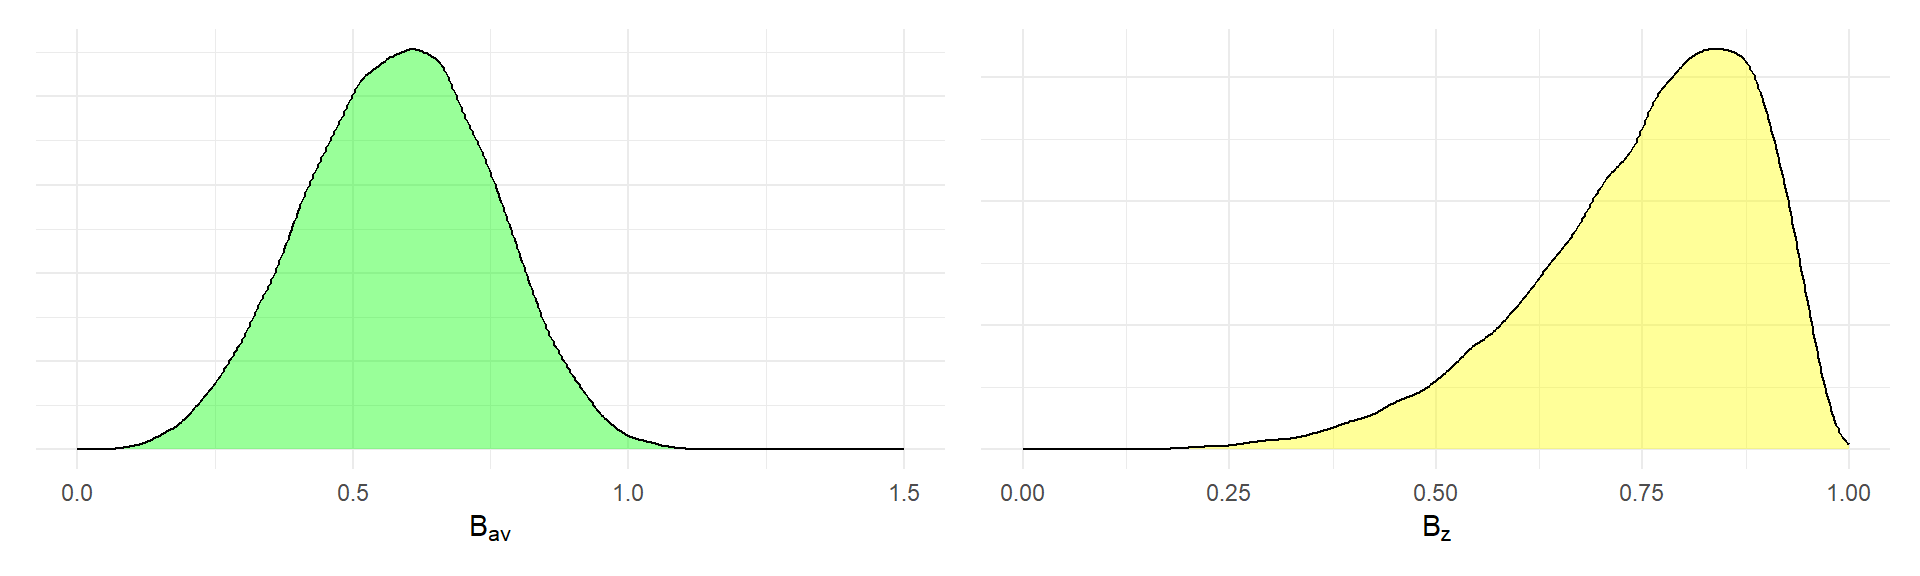
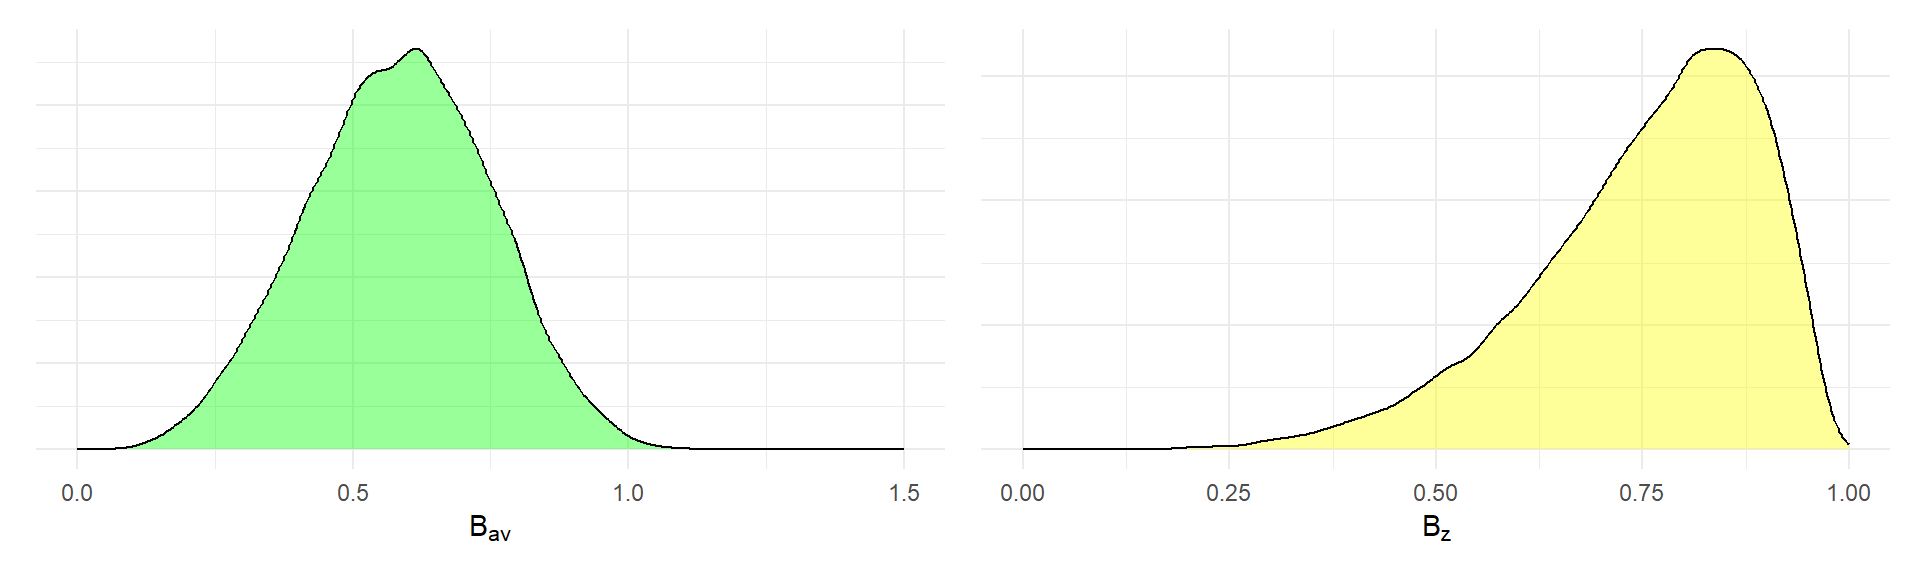
Finished dizzy for d-z.

diff --git a/content/post/dizzy-for-d-z.html b/content/post/dizzy-for-d-z.html
@@ -6,7 +6,6 @@ date: '2023-02-17'
 codefolding_show: 'hide'
 slug: dizzy-for-d-z
 categories: []
-draft: true
 tags:
   - effect size
   - standardized mean difference
@@ -137,7 +136,7 @@ p_A_av &lt;- density_plot(A_av, expression(A[av]),&quot;blue&quot;, c(0.2,1))
 p_A_z &lt;- density_plot(A_z, expression(A[z]), &quot;purple&quot;, c(0, 3))
 p_A_av + p_A_z</code></pre>
 <p><img src="/post/dizzy-for-d-z_files/figure-html/unnamed-chunk-2-1.png" width="960" /></p>
-<p>The distribution of <span class="math inline">\(A_{av}\)</span> is mostly concentrated around the mean of <span class="math inline">\(E(A_{av}) = 0.898\)</span>, with a coefficient of variation of <span class="math inline">\(CV(A_{av}) = 0.085\)</span>. In contrast, the distribution of <span class="math inline">\(A_{av}\)</span> has a mean very close to one, <span class="math inline">\(E(A_z) = 1.005\)</span> but a coefficient of variation of <span class="math inline">\(CV(A_z) = 0.208\)</span>, about 2.5 times larger. Thus, variation in measurement procedure induces more extra heterogeneity into the distribution of <span class="math inline">\(\tilde\delta_z\)</span> than into <span class="math inline">\(\tilde\delta_{av}\)</span>.</p>
+<p>The distribution of <span class="math inline">\(A_{av}\)</span> is mostly concentrated around the mean of <span class="math inline">\(E(A_{av}) = 0.898\)</span>, with a coefficient of variation of <span class="math inline">\(CV(A_{av}) = 0.085\)</span>. In contrast, the distribution of <span class="math inline">\(A_{av}\)</span> has a mean very close to one, <span class="math inline">\(E(A_z) = 1.006\)</span> but a coefficient of variation of <span class="math inline">\(CV(A_z) = 0.209\)</span>, about 2.5 times larger. Thus, variation in measurement procedure induces more extra heterogeneity into the distribution of <span class="math inline">\(\tilde\delta_z\)</span> than into <span class="math inline">\(\tilde\delta_{av}\)</span>.</p>
 <p>Now, one potential objection to this hypothetical scenario is that researchers do not choose the number of trials at random, without consideration for the other parameters of the study design. A more realistic assumption might be that researchers choose <span class="math inline">\(K\)</span> to ensure they achieve at least some threshold level of reliability for the observed scores. The reliability of the observed scores is <span class="math inline">\(A_{av}^2\)</span>, so ensuring some threshold of reliability is equivalent to ensuring the square root of the threshold for <span class="math inline">\(A_{av}\)</span>. Let’s suppose that researchers always ensure <span class="math inline">\(A_{av} \geq 0.8\)</span> so that reliability is always at least <span class="math inline">\(0.64\)</span>. This leads to the following distributions for <span class="math inline">\(A_{av}\)</span> and <span class="math inline">\(A_z\)</span>:</p>
 <pre class="r"><code>A_av_trunc &lt;- A_av[A_av &gt;= 0.8]
 A_z_trunc &lt;- A_z[A_av &gt;= 0.8]
@@ -145,8 +144,8 @@ p_A_av_trunc &lt;- density_plot(A_av_trunc, expression(A[av]),&quot;blue&quot;, 
 p_A_z_trunc &lt;- density_plot(A_z_trunc, expression(A[z]), &quot;purple&quot;, c(0, 3))
 p_A_av_trunc + p_A_z_trunc</code></pre>
 <p><img src="/post/dizzy-for-d-z_files/figure-html/unnamed-chunk-3-1.png" width="960" />
-The distribution of <span class="math inline">\(A_{av}\)</span> loses its left tail, so that its mean is <span class="math inline">\(E(A_{av}|A_{av} \geq 0.8) = 0.917\)</span> and its coefficient of variation is reduced to <span class="math inline">\(CV(A_{av} | A_{av} \geq 0.8) = 0.049\)</span>. The distribution of <span class="math inline">\(A_{av}\)</span> now has a mean of <span class="math inline">\(E(A_z | A_{av} \geq 0.8) = 1.043\)</span> and a coefficient of variation of <span class="math inline">\(CV(A_z | A_{av} \geq 0.8) = 0.173\)</span>, about 3.5 times larger than the squared coefficient of variation of <span class="math inline">\(A_{av}\)</span>.</p>
-<p>Under both of these scenarios, the observed-score <span class="math inline">\(\tilde\delta_z\)</span> is substantially more sensitive to heterogeneity of measurement procedures than is <span class="math inline">\(\tilde\delta_{av}\)</span>. Based on this model and hypothetical example, it seems clear <span class="math inline">\(\tilde\delta_{av}\)</span> should be preferred over <span class="math inline">\(\tilde\delta_z\)</span> as a metric for meta-analyis. However, these relationships are predicated on a certain model for the study-specific parameters. One might object to this model because there’s a sense that we have assumed that <span class="math inline">\(\delta_{av}\)</span> is the right answer. After all, the underlying effect size model is specified in terms of <span class="math inline">\(\delta_{av}\)</span>, and the design parameters—including <span class="math inline">\(\rho\)</span> in particular—are treated as noise, uncorrelated with <span class="math inline">\(\delta_{av}\)</span>.
+The distribution of <span class="math inline">\(A_{av}\)</span> loses its left tail, so that its mean is <span class="math inline">\(E(A_{av}|A_{av} \geq 0.8) = 0.918\)</span> and its coefficient of variation is reduced to <span class="math inline">\(CV(A_{av} | A_{av} \geq 0.8) = 0.049\)</span>. The distribution of <span class="math inline">\(A_{av}\)</span> now has a mean of <span class="math inline">\(E(A_z | A_{av} \geq 0.8) = 1.045\)</span> and a coefficient of variation of <span class="math inline">\(CV(A_z | A_{av} \geq 0.8) = 0.173\)</span>, about 3.5 times larger than the squared coefficient of variation of <span class="math inline">\(A_{av}\)</span>.</p>
+<p>Under both of these scenarios, the observed-score <span class="math inline">\(\tilde\delta_z\)</span> is substantially more sensitive to heterogeneity of measurement procedures than is <span class="math inline">\(\tilde\delta_{av}\)</span>. Based on this model and hypothetical example, it seems clear <span class="math inline">\(\tilde\delta_{av}\)</span> should be preferred over <span class="math inline">\(\tilde\delta_z\)</span> as a metric for meta-analysis. However, these relationships are predicated on a certain model for the study-specific parameters. One might object to this model because there’s a sense that we have assumed that <span class="math inline">\(\delta_{av}\)</span> is the right answer. After all, the underlying effect size model is specified in terms of <span class="math inline">\(\delta_{av}\)</span>, and the design parameters—including <span class="math inline">\(\rho\)</span> in particular—are treated as noise, uncorrelated with <span class="math inline">\(\delta_{av}\)</span>.
 What happens to the observed-score metrics <span class="math inline">\(\tilde\delta_z\)</span> and <span class="math inline">\(\tilde\delta_{av}\)</span> if we instead start with a model specified in terms of <span class="math inline">\(\delta_z\)</span>?</p>
 </div>
 <div id="a-model-for-delta_z" class="section level2">
@@ -239,10 +238,10 @@ knitr::kable(
 <tr class="odd">
 <td align="left">random</td>
 <td align="right">0.085</td>
-<td align="right">0.208</td>
+<td align="right">0.209</td>
 <td align="right">2.5</td>
 <td align="right">0.285</td>
-<td align="right">0.181</td>
+<td align="right">0.182</td>
 <td align="right">0.64</td>
 </tr>
 <tr class="even">
@@ -256,9 +255,11 @@ knitr::kable(
 </tr>
 </tbody>
 </table>
+<p>The tables are now more or less turned. Under both reliability scenarios, <span class="math inline">\(B_z\)</span> has a lower coefficient of variation than <span class="math inline">\(B_{av}\)</span>, indicating that <span class="math inline">\(\tilde\delta_z\)</span> is less affected by measurement procedure variation than is <span class="math inline">\(\tilde\delta_{av}\)</span>. However, <span class="math inline">\(\tilde\delta_z\)</span> is still affected in absolute terms, with a coefficient of variation that is about 79% of the coefficient of variation for <span class="math inline">\(A_z\)</span>. Of course, <span class="math inline">\(\tilde\delta_{av}\)</span> is quite strongly affected under this model, with a coefficient of variation of 0.257.</p>
 </div>
 <div id="consequences-for-heterogeneity" class="section level2">
 <h2>Consequences for heterogeneity</h2>
+<p>To make these results a bit more concrete, it’s useful to consider a specific numerical scenario. The figure below plots the CVs of observed-score effect size parameters as a function of the CVs of the true effect size distribution.</p>
 <pre class="r"><code>library(tidyr)
 library(stringr)
 
@@ -273,6 +274,15 @@ CV_obs &lt;-
     CV = sqrt((1 + 2 * tau_mu^2) * het^2 + tau_mu^2)
   )
 
+CV_ex &lt;- CV_obs |&gt;
+  filter(tau_mu == 0.5, reliability == &quot;Reliability of at least 0.64&quot;) |&gt;
+  select(metric, CV) |&gt;
+  mutate(
+    CV = round(CV, 3),
+    metric = str_replace(str_sub(metric, 1, -2), &quot;\\[&quot;, &quot;_&quot;)
+  ) |&gt;
+  pivot_wider(names_from = metric, values_from = CV)
+
 CV_obs_labs &lt;-
   CV_obs %&gt;%
   filter(tau_mu == 0)
@@ -284,19 +294,31 @@ ggplot(CV_obs, aes(tau_mu, CV, color = metric)) +
   geom_vline(xintercept = 0) + 
   geom_hline(yintercept = 0) + 
   geom_abline(slope = 1, linetype = &quot;dashed&quot;) + 
-  geom_text(data = CV_obs_labs, aes(x = tau_mu, y = CV, color = metric, label = metric)) + 
+  geom_text(
+    data = CV_obs_labs, 
+    aes(x = tau_mu, y = CV, color = metric, label = metric),
+    nudge_x = -0.05,
+    parse = TRUE
+  ) + 
   geom_line() + 
   theme_minimal() + 
   labs(x = expression(tau / mu), y = &quot;Coefficient of variation for observed score ES&quot;) + 
   theme(legend.position = &quot;none&quot;)</code></pre>
-<p><img src="/post/dizzy-for-d-z_files/figure-html/unnamed-chunk-7-1.png" width="672" /></p>
+<p><img src="/post/dizzy-for-d-z_files/figure-html/unnamed-chunk-7-1.png" width="672" />
+Consider, for instance, a scenario where observed-score reliability is always at least 0.64 and <span class="math inline">\(\tau / \mu = 0.5\)</span>, which would be the case if effect sizes are normally distributed and about 97% of effect sizes are positive. Under the effect size model based on <span class="math inline">\(\delta_{av}\)</span>, the observed-score <span class="math inline">\(\tilde\delta_{av}\)</span> is hardly affected by measurement heterogeneity at all, with a CV of 0.504 but the CV of the observed-score <span class="math inline">\(\tilde\delta_z\)</span> is 0.543. Under the effect size model based on <span class="math inline">\(\delta_{av}\)</span>, the observed-score <span class="math inline">\(\tilde\delta_{av}\)</span> is strongly affected by measurement heterogeneity, with a CV of 0.591; in comparison, the CV of the observed-score <span class="math inline">\(\tilde\delta_z\)</span> of 0.527. Under both models, these increase in CV are effectively constant for larger values of <span class="math inline">\(\tau / \mu\)</span>.</p>
 </div>
+</div>
+<div id="so-whats-your-point" class="section level1">
+<h1>So what’s your point?</h1>
+<p>Unfortunately, this particular rabbit hole doesn’t seem to lead to many clear take-aways. For the scenario that I looked at here, the preferred choice of effect size metric is apparently driven by what assumptions we find more plausible. If we think the more plausible model is the one in which <span class="math inline">\(\rho\)</span> is independent of <span class="math inline">\(\delta_{av}\)</span>, then <span class="math inline">\(\tilde\delta_{av}\)</span> is less strongly affected by measurement variation and therefore preferred. However, if we think the more plausible model is the one in which <span class="math inline">\(\rho\)</span> is independent of <span class="math inline">\(\delta_z\)</span>, then <span class="math inline">\(\tilde\delta_z\)</span> is less strongly affected by measurement variation and therefore preferred. One caveat to the latter scenario is that the measurement error attenuation in <span class="math inline">\(\tilde\delta_z\)</span> is still a complicated mess, depending on both the true score correlation <span class="math inline">\(\rho\)</span> and the reliability <span class="math inline">\(\phi\)</span>. This would make it pretty hard to implement some sort of correction for attenuation. In contrast, the attenuation in <span class="math inline">\(\tilde\delta_{av}\)</span> depends only on <span class="math inline">\(\phi\)</span>, which might mean that a correction for attenuation is more feasible.</p>
+<p>So, how could one decide which meta-analytic model is more plausible in a given application? On a conceptual level, I would argue that the model for <span class="math inline">\(\delta_{av}\)</span> would tend to be more plausible in meta-analyses where there is more operational variation in the interventions examined. I would expect that syntheses that include many different versions of an intervention construct would tend to have a wider range of correlations between true scores (i.e., more variable correlations between potential outcomes), even holding the outcome measurement procedures constant. This doesn’t necessarily justify the assumption that <span class="math inline">\(\rho\)</span> is independent of <span class="math inline">\(\delta_{av}\)</span>, but it does make it seem rather implausible that <span class="math inline">\(\delta_z\)</span> would be independent of <span class="math inline">\(\rho\)</span>.</p>
+<p>On a more practical level, it seems like there are a few empirical things that a meta-analyst could do to inform a choice between a model for <span class="math inline">\(\delta_{av}\)</span> and one for <span class="math inline">\(\delta_z\)</span>. Pragmatically, one could calculate both effect size metrics and just see which one exhibits more heterogeneity. All else equal, it seems reasonable to prefer the metric that has less heterogeneity. One could also try to gather data on the correlation between observed scores, on the reliability of the observed scores, and on the number of trials used in each study. With this information, one could construct measurement-related predictors and use them in a meta-regression to explain variation in the observed effect size estimates. Alternately, one could use the formulas given above to implement attenuation corrections for the effect sizes and see if this leads to reduced heterogeneity. How well would any of these approaches actually work? This would take some further, more careful and systematic investigation.</p>
 </div>
 <div class="footnotes footnotes-end-of-document">
 <hr />
 <ol>
 <li id="fn1"><p>I would <em>love</em> to be corrected on both of these points. Please drop a comment or email me with suggested reading.<a href="#fnref1" class="footnote-back">↩</a></p></li>
-<li id="fn2"><p>When the standardizing variance is calculated using measurements from only one condition (i.e., the pre-test in a repeated measures design), this version of <span class="math inline">\(d\)</span> corresponds to <code>measure = "SMCR"</code>, the “stanardized mean change using raw score standardization” in <code>metafor::escalc</code>.<a href="#fnref2" class="footnote-back">↩</a></p></li>
-<li id="fn3"><p>This version of <span class="math inline">\(d\)</span> corresponds to <code>measure = "SMCC"</code>, the “stanardized mean change using change score standardization” in <code>metafor::escalc</code>.<a href="#fnref3" class="footnote-back">↩</a></p></li>
+<li id="fn2"><p>When the standardizing variance is calculated using measurements from only one condition (i.e., the pre-test in a repeated measures design), this version of <span class="math inline">\(d\)</span> corresponds to <code>measure = "SMCR"</code>, the “standardized mean change using raw score standardization” in <code>metafor::escalc</code>.<a href="#fnref2" class="footnote-back">↩</a></p></li>
+<li id="fn3"><p>This version of <span class="math inline">\(d\)</span> corresponds to <code>measure = "SMCC"</code>, the “standardized mean change using change score standardization” in <code>metafor::escalc</code>.<a href="#fnref3" class="footnote-back">↩</a></p></li>
 </ol>
 </div>
